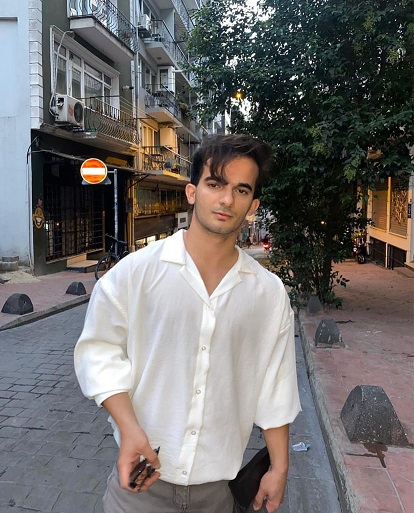
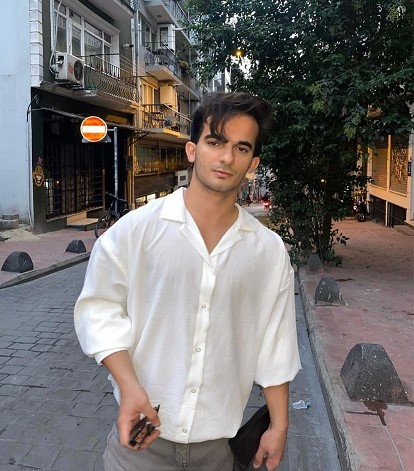
Hülya Kahveci foto eklendi

diff --git a/Oylama/index.html b/Oylama/index.html
@@ -259,7 +259,7 @@
                         <div class="candidate">
                             <input type="radio" id="q4c2" name="entry.83290777" value="Hülya Kahveci" required>
                             <label for="q4c2">
-                                <img src="candidate1.jpg" alt="Candidate 2">
+                                <img src="/assets/adaylar/hulyakahveci.jpg" alt="Candidate 2">
                                 <br>Hülya Kahveci
                             </label>
                         </div>
